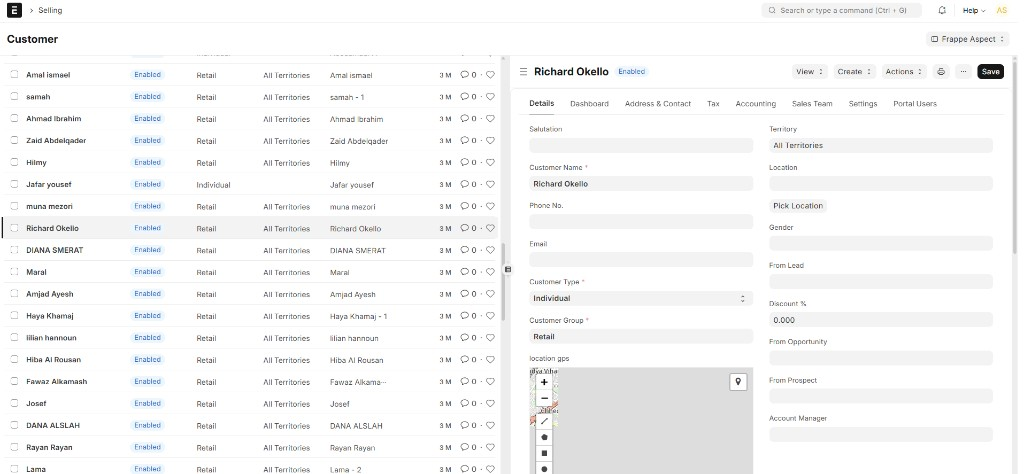
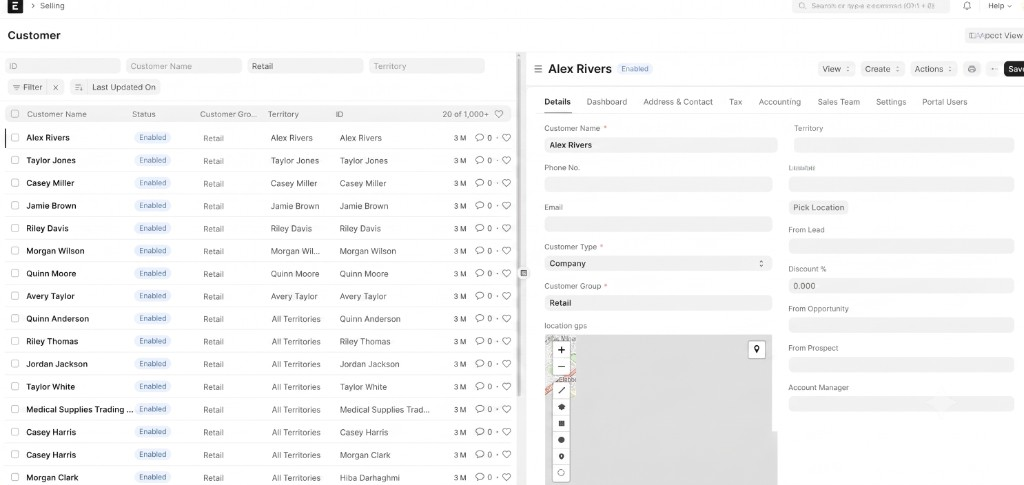
Update README screenshots

diff --git a/frappe_aspect/public/dist/css/frappe_aspect.bundle.QJCH7QJ7.css b/frappe_aspect/public/dist/css/frappe_aspect.bundle.QJCH7QJ7.css
@@ -1,9 +1,9 @@
-/* ../../../../../tmp/tmp-86580-w0VT6hTHdwEG/frappe_aspect/frappe_aspect/public/scss/frappe_aspect.bundle.css */
+/* ../../../../../tmp/tmp-114570-FrEGGBdy0Ye0/frappe_aspect/frappe_aspect/public/scss/frappe_aspect.bundle.css */
 body.frappe-aspect-active .navbar > .container {
   max-width: 100%;
   width: 100%;
-  padding-right: var(--padding-md);
   padding-left: var(--padding-md);
+  padding-right: var(--padding-md);
 }
 #page-frappe_aspect .frappe-aspect-container {
   display: flex;
@@ -22,8 +22,8 @@ body.frappe-aspect-active .navbar > .container {
 #page-frappe_aspect .page-body.container {
   width: 100%;
   max-width: 100%;
-  padding-right: 0;
   padding-left: 0;
+  padding-right: 0;
 }
 #page-frappe_aspect > .page-head {
   margin-bottom: 0;
@@ -33,12 +33,12 @@ body.frappe-aspect-active .navbar > .container {
 #page-frappe_aspect > .page-head .container {
   max-width: 100%;
   width: 100%;
-  padding-right: var(--padding-md);
   padding-left: var(--padding-md);
+  padding-right: var(--padding-md);
 }
 #page-frappe_aspect > .page-head .page-head-content {
-  padding-right: 0;
   padding-left: 0;
+  padding-right: 0;
 }
 #page-frappe_aspect .layout-main-section {
   padding: 0;
@@ -137,7 +137,7 @@ body.frappe-aspect-active .navbar > .container {
   z-index: 1;
 }
 #page-frappe_aspect .frappe-aspect-list .page-form .sort-selector .btn-group {
-  margin: var(--margin-xs) var(--margin-xs) var(--margin-xs) 0;
+  margin: var(--margin-xs) 0 var(--margin-xs) var(--margin-xs);
 }
 #page-frappe_aspect .frappe-aspect-list .result,
 #page-frappe_aspect .frappe-aspect-list .freeze,
@@ -160,7 +160,7 @@ body.frappe-aspect-active .navbar > .container {
 }
 #page-frappe_aspect .frappe-aspect-list .list-row.frappe-aspect-selected {
   background-color: var(--control-bg);
-  box-shadow: inset -3px 0 0 var(--primary);
+  box-shadow: inset 3px 0 0 var(--primary);
 }
 #page-frappe_aspect .frappe-aspect-list .list-paging-area {
   border-top: 1px solid var(--border-color);
@@ -181,8 +181,8 @@ body.frappe-aspect-active .navbar > .container {
   content: "";
   position: absolute;
   top: 50%;
-  right: 50%;
-  transform: translate(50%, -50%);
+  left: 50%;
+  transform: translate(-50%, -50%);
   width: 2px;
   height: 32px;
   border-radius: 2px;
@@ -201,8 +201,8 @@ body.frappe-aspect-active .navbar > .container {
 #page-frappe_aspect .o_frappe_aspect_splitter .frappe-aspect-reset-pane {
   position: absolute;
   top: 50%;
-  right: 50%;
-  transform: translate(50%, -50%);
+  left: 50%;
+  transform: translate(-50%, -50%);
   z-index: 11;
   width: 22px;
   height: 22px;
@@ -295,4 +295,4 @@ body.frappe-aspect-resizing {
   -moz-user-select: none;
   user-select: none;
 }
-/*# sourceMappingURL=frappe_aspect.bundle.Y4HQ6IVE.css.map */
+/*# sourceMappingURL=frappe_aspect.bundle.QJCH7QJ7.css.map */

diff --git a/frappe_aspect/public/dist/css-rtl/frappe_aspect.bundle.4HP7L73C.css b/frappe_aspect/public/dist/css-rtl/frappe_aspect.bundle.4HP7L73C.css
@@ -1,9 +1,9 @@
-/* ../../../../../tmp/tmp-86580-UR5WqTVOer4Z/frappe_aspect/frappe_aspect/public/scss/frappe_aspect.bundle.css */
+/* ../../../../../tmp/tmp-114570-weNkAMmJr205/frappe_aspect/frappe_aspect/public/scss/frappe_aspect.bundle.css */
 body.frappe-aspect-active .navbar > .container {
   max-width: 100%;
   width: 100%;
-  padding-left: var(--padding-md);
   padding-right: var(--padding-md);
+  padding-left: var(--padding-md);
 }
 #page-frappe_aspect .frappe-aspect-container {
   display: flex;
@@ -22,8 +22,8 @@ body.frappe-aspect-active .navbar > .container {
 #page-frappe_aspect .page-body.container {
   width: 100%;
   max-width: 100%;
-  padding-left: 0;
   padding-right: 0;
+  padding-left: 0;
 }
 #page-frappe_aspect > .page-head {
   margin-bottom: 0;
@@ -33,12 +33,12 @@ body.frappe-aspect-active .navbar > .container {
 #page-frappe_aspect > .page-head .container {
   max-width: 100%;
   width: 100%;
-  padding-left: var(--padding-md);
   padding-right: var(--padding-md);
+  padding-left: var(--padding-md);
 }
 #page-frappe_aspect > .page-head .page-head-content {
-  padding-left: 0;
   padding-right: 0;
+  padding-left: 0;
 }
 #page-frappe_aspect .layout-main-section {
   padding: 0;
@@ -137,7 +137,7 @@ body.frappe-aspect-active .navbar > .container {
   z-index: 1;
 }
 #page-frappe_aspect .frappe-aspect-list .page-form .sort-selector .btn-group {
-  margin: var(--margin-xs) 0 var(--margin-xs) var(--margin-xs);
+  margin: var(--margin-xs) var(--margin-xs) var(--margin-xs) 0;
 }
 #page-frappe_aspect .frappe-aspect-list .result,
 #page-frappe_aspect .frappe-aspect-list .freeze,
@@ -160,7 +160,7 @@ body.frappe-aspect-active .navbar > .container {
 }
 #page-frappe_aspect .frappe-aspect-list .list-row.frappe-aspect-selected {
   background-color: var(--control-bg);
-  box-shadow: inset 3px 0 0 var(--primary);
+  box-shadow: inset -3px 0 0 var(--primary);
 }
 #page-frappe_aspect .frappe-aspect-list .list-paging-area {
   border-top: 1px solid var(--border-color);
@@ -181,8 +181,8 @@ body.frappe-aspect-active .navbar > .container {
   content: "";
   position: absolute;
   top: 50%;
-  left: 50%;
-  transform: translate(-50%, -50%);
+  right: 50%;
+  transform: translate(50%, -50%);
   width: 2px;
   height: 32px;
   border-radius: 2px;
@@ -201,8 +201,8 @@ body.frappe-aspect-active .navbar > .container {
 #page-frappe_aspect .o_frappe_aspect_splitter .frappe-aspect-reset-pane {
   position: absolute;
   top: 50%;
-  left: 50%;
-  transform: translate(-50%, -50%);
+  right: 50%;
+  transform: translate(50%, -50%);
   z-index: 11;
   width: 22px;
   height: 22px;
@@ -295,4 +295,4 @@ body.frappe-aspect-resizing {
   -moz-user-select: none;
   user-select: none;
 }
-/*# sourceMappingURL=frappe_aspect.bundle.2T4JB2AS.css.map */
+/*# sourceMappingURL=frappe_aspect.bundle.4HP7L73C.css.map */
